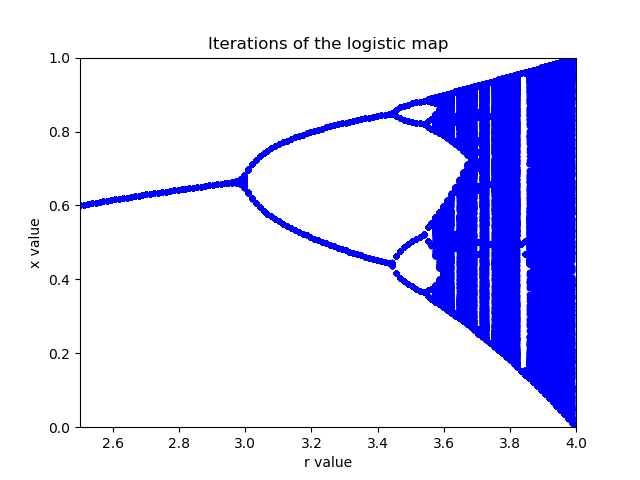
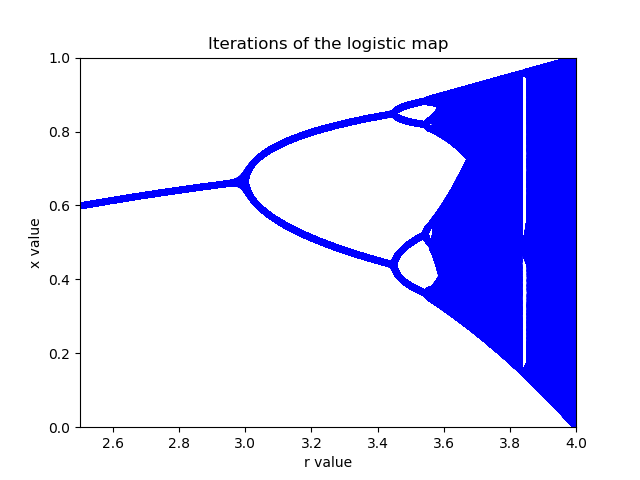
hw2 finish

diff --git a/hw2/hw2.py b/hw2/hw2.py
@@ -111,6 +111,37 @@ def parallel_logistic_map(r, x, transient, steady):
 
     return d_ss.copy_to_host().transpose()
 
+def f_serial(x, r):
+    '''
+    Execute 1 iteration of the logistic map
+    '''
+    return r * x * (1 - x)
+
+def logisticSteadyArray(x0,r,n_transient, n_ss):
+    '''
+    Conpute an array of iterates of the logistic map f(x)=r*x*(1-x)
+    
+    Inputs:
+        x0: float initial value
+        r: float parameter value
+        n_transient: int number of initial iterates to NOT store
+        n_ss: int number of iterates to store
+        
+    Returns:
+        x: numpy array of n float64 values
+    '''
+    #create an array to hold n elements (each a 64 bit float)
+    x = np.zeros(n_ss, dtype=np.float64) 
+    x_old = x0 #assign the initial value
+    for i in range(n_transient):
+        x_new = f_serial(x_old, r)
+        x_old = x_new
+    for i in range(n_ss): #iterate over the desired sequence
+        x[i] = x_old
+        x_new = f_serial(x_old, r) #compute the output value and assign to variable x_new
+        x_old = x_new #assign the new (output) value top be the old (input) value for the next iterate
+    return x
+
 
 @cuda.jit(device=True)
 def iteration_count(cx, cy, dist, itrs):
@@ -166,7 +197,7 @@ def parallel_mandelbrot(cx, cy, dist, itrs):
     d_y = cuda.to_device(cy)
     d_f = cuda.device_array((nx, ny), dtype=np.float32)
 
-    TPBX = TPBY = 32
+    TPBX = TPBY = 2**4
     gridDims = ((nx + TPBX - 1) // TPBX, (ny + TPBY - 1) // TPBY)
     blockDims = (TPBX, TPBY)
     mandelbrot_kernel[gridDims, blockDims](d_f, d_x, d_y, dist, itrs)
@@ -175,12 +206,19 @@ def parallel_mandelbrot(cx, cy, dist, itrs):
 
 
 if __name__ == "__main__":
+    Prob1 = True
+    Prob2 = True
+    Prob3 = True
+    Prob4 = True
+
+    # Prob1 = Prob2 = Prob3 = False
 
     #Problem 1
-    print("GPU memory in GB: ", gpu_total_memory() / 1024**3)
-    print("Compute capability (Major, Minor): ", gpu_compute_capability())
-    print("GPU Model Name: ", gpu_name())
-    print("Max float64 count: ", max_float64s())
+    if Prob1:
+        print("GPU memory in GB: ", gpu_total_memory() / 1024**3)
+        print("Compute capability (Major, Minor): ", gpu_compute_capability())
+        print("GPU Model Name: ", gpu_name())
+        print("Max float64 count: ", max_float64s())
 
     #PASTE YOUR OUTPUT HERE#
     """
@@ -191,50 +229,125 @@ if __name__ == "__main__":
     """
 
     #Problem 2
-    map_64()
+    if Prob2:
+        map_64()    
 
     #PASTE YOUR ERROR MESSAGES HERE#
     """
-        Max N = 2^29
+        Max N = 2^28
         ERROR MESSAGES: numba.cuda.cudadrv.driver.CudaAPIError: [2] Call to cuMemAlloc results in CUDA_ERROR_OUT_OF_MEMORY
     """
 
     #Problem 3
-    m, rmin, rmax = 128, 2.5, 4.0
-    r = np.linspace(rmin, rmax, m)
-    x, transient, steady = 0.5, 100, 1024
-    ss = parallel_logistic_map(r, x, transient, steady)
+    if Prob3:
+        m, rmin, rmax = 2**12, 2.5, 4.0
+        r = np.linspace(rmin, rmax, m)
+        x0, transient, steady = 0.5, 100, 2**10
 
-    fig = plt.figure(3)
-    plt.plot(r, ss, 'b.')
-    plt.axis([rmin, rmax, 0, 1])
-    plt.xlabel('r value')
-    plt.ylabel('x value')
-    plt.title('Iterations of the logistic map')
-    plt.savefig("logistics map.png")
+        t1 = time()
+        ss = parallel_logistic_map(r, x0, transient, steady)
+        t2 = time()
+        logistic_time = t2 - t1
+        print('It took {} seconds to calculate the parallel_logistic_map graph.'.
+              format(logistic_time))
+        fig = plt.figure(3)
+        plt.plot(r, ss, 'b.')
+        plt.axis([rmin, rmax, 0, 1])
+        plt.xlabel('r value')
+        plt.ylabel('x value')
+        plt.title('Iterations of the logistic map')
+        plt.savefig("logistics map.png")
+
+        x = np.zeros([m, steady])
+        t1 = time()
+        for j in range(r.shape[0]):
+            tmp = logisticSteadyArray(x0, r[j], transient, steady)
+            for i in range(steady):
+                x[j,i] = tmp[i]
+        t2 = time()
+        logistic_time = t2 - t1
+        print('It took {} seconds to calculate the serial_logistic_map graph.'.
+              format(logistic_time))
+    
+    """
+        a) Locate the `for` loops in the logistic map code. What quantity is iterated over in each loop?
+        $ My Anwser >>>
+            - Iterate over `iteration number`: range(transient) and range(steady)
+            - Iterate over range(#r)
+
+        b) For which loop are the computations in each iteration independent of one another? Briefly explain 
+        the reasoning behind your response.
+        $ My Anwser >>>
+            - Each iteration in loop over #r is independent of one another, that why we can parallelize this loop.
+
+        c) Implement a parallel version of the code to compute the bifurcation diagram of the logistic map.
+        $ My Anwser >>>
+            - As above
+
+        d) Modify both the serial and parallel codes to print the time required to perform the computation. 
+        Determine the time requried to compute 1000 iterations for 1000 parameter values, and report the 
+        "acceleration" factor; i.e. the ratio of serial run time over parallel run time.
+        $ My Anwser >>>
+            - When r.size = 10**12, steady = 10**10
+            - Acceleration = 2.6752564907073975/ 0.08854389190673828 = 30x
+    """
 
     #Problem 4
+    if Prob4:
+        width = height = 2**16
+        real_low = imag_low = -2
+        imag_high = real_high = 2
+        real_vals = np.linspace(real_low, real_high, width)
+        imag_vals = np.linspace(imag_low, imag_high, height)
 
-    width = height = 512
-    real_low = imag_low = -2
-    imag_high = real_high = 2
-    real_vals = np.linspace(real_low, real_high, width)
-    imag_vals = np.linspace(imag_low, imag_high, height)
+        t1 = time()
+        mandel = parallel_mandelbrot(real_vals, imag_vals, 2.5, 256)
+        t2 = time()
+        mandel_time = t2 - t1
 
-    t1 = time()
-    mandel = parallel_mandelbrot(real_vals, imag_vals, 2.5, 256)
-    t2 = time()
-    mandel_time = t2 - t1
+        fig = plt.figure(4, figsize=(90,90))
+        plt.imshow(mandel, extent=(-2, 2, -2, 2))
+        plt.colorbar()
+        plt.savefig('parallel_mandelbrot.png')
+        # plt.show()
 
-    fig = plt.figure(4)
-    plt.imshow(mandel, extent=(-2, 2, -2, 2))
-    plt.colorbar()
-    plt.savefig('mandelbrot.png')
-    # plt.show()
+        # boolean_mandel = mandel > 1
+        # plt.imshow(boolean_mandel, extent=(-2, 2, -2, 2))
+        # plt.savefig('boolean_mandel.png')
+        # plt.show()
 
-    # boolean_mandel = mandel > 1
-    # plt.imshow(boolean_mandel, extent=(-2, 2, -2, 2))
-    # plt.savefig('boolean_mandel.png')
-    # plt.show()
+        print('It took {} seconds to calculate the parallel_mandelbrot graph.'.format(
+            mandel_time))
 
-    print('It took {} seconds to calculate the Mandelbrot graph.'.format(mandel_time))
+    """
+    a) What do the `for` loops in the serial code iterate over? For which loops are 
+    the computations for each iteration independent of one another? Briefly explain 
+    the reasoning behind your reply.
+    $ My Anwser >>>
+    - Iterate over nx and ny
+    - both of them are independent cases, that's why both of them can be parallelized.
+
+    b) Write a numba implementation that a lunches a 2D computational grid to parallelize 
+    the appropriate loops. Run your parallel code and verify that it reproduces the 
+    results of the serial version. 
+    $ My Anwser >>>
+    - As above
+    
+    Also run your code to answer the questions below:
+    
+    c) What is the finest resolution 2D grid can you run on your GPU? What error message 
+    is generated by attempting finer grid resolution?
+    $ My Anwser >>>    
+    - Error Message: numba.cuda.cudadrv.driver.CudaAPIError: [2] Call to cuMemAlloc results in CUDA_ERROR_OUT_OF_MEMORY
+    - width = height = 2**15
+
+    d) What is the largest square block that you can run on your GPU? What error message 
+    is generated if you request more threads in each block?
+    $ My Anwser >>>    
+    - Error Message: numba.cuda.cudadrv.driver.CudaAPIError: [1] Call to cuLaunchKernel results in CUDA_ERROR_INVALID_VALUE
+    - TPBX = TPBY = 2**7
+    
+    """
+
+
+
